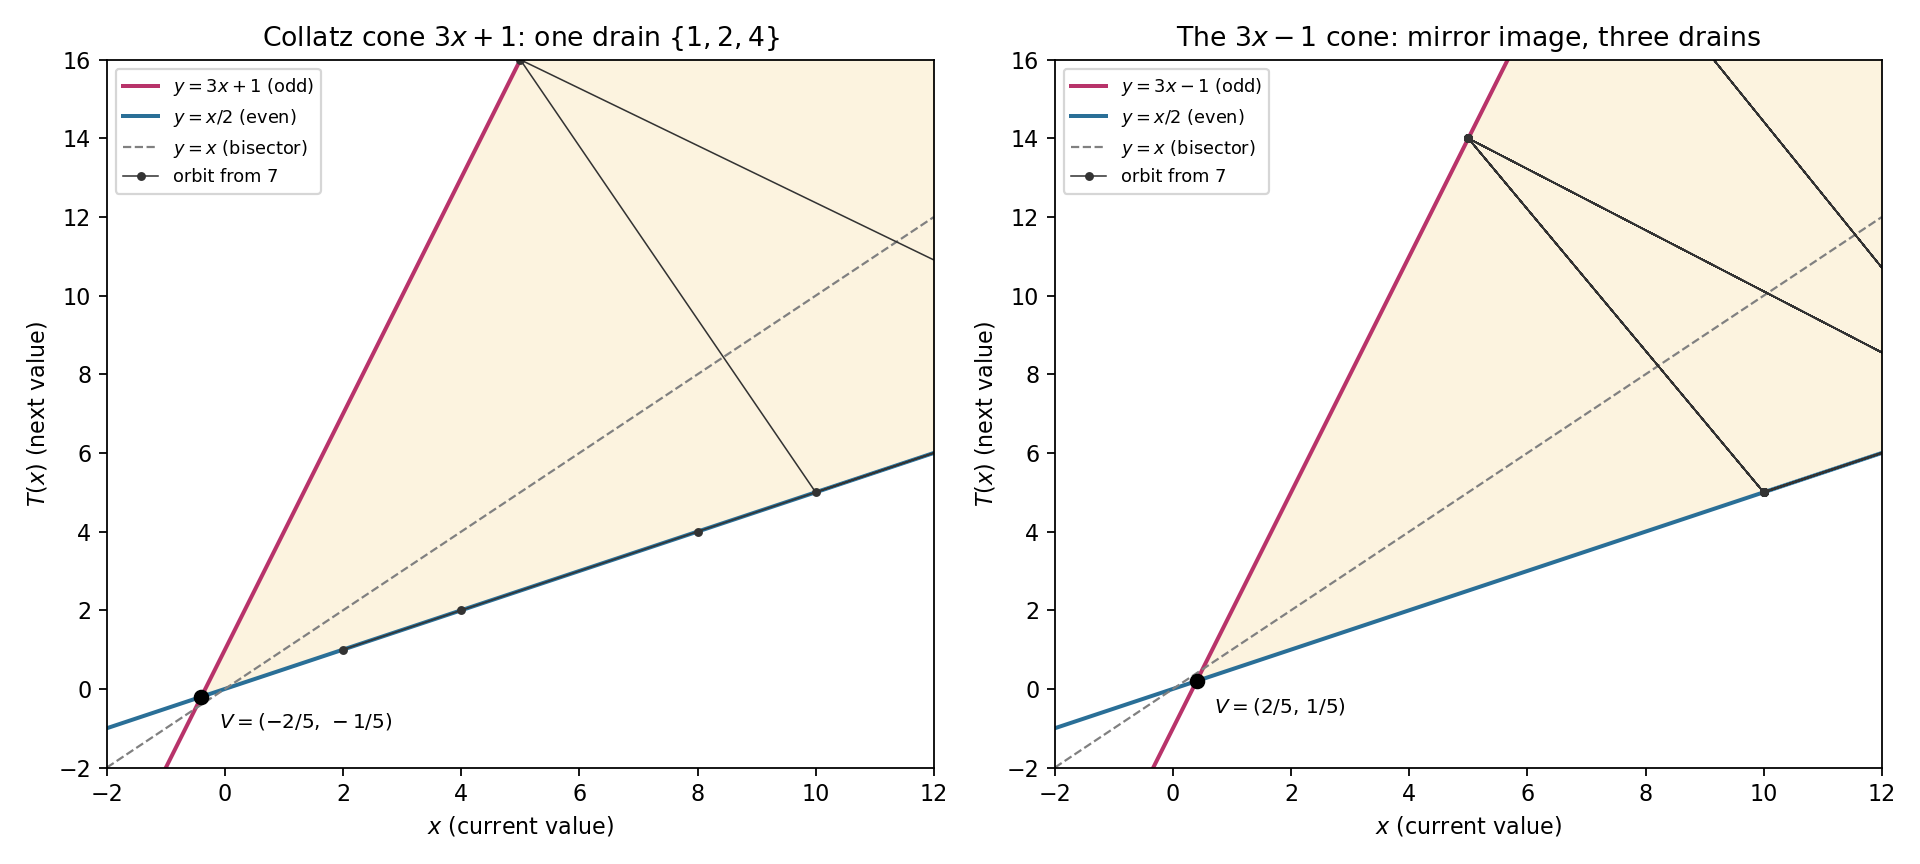
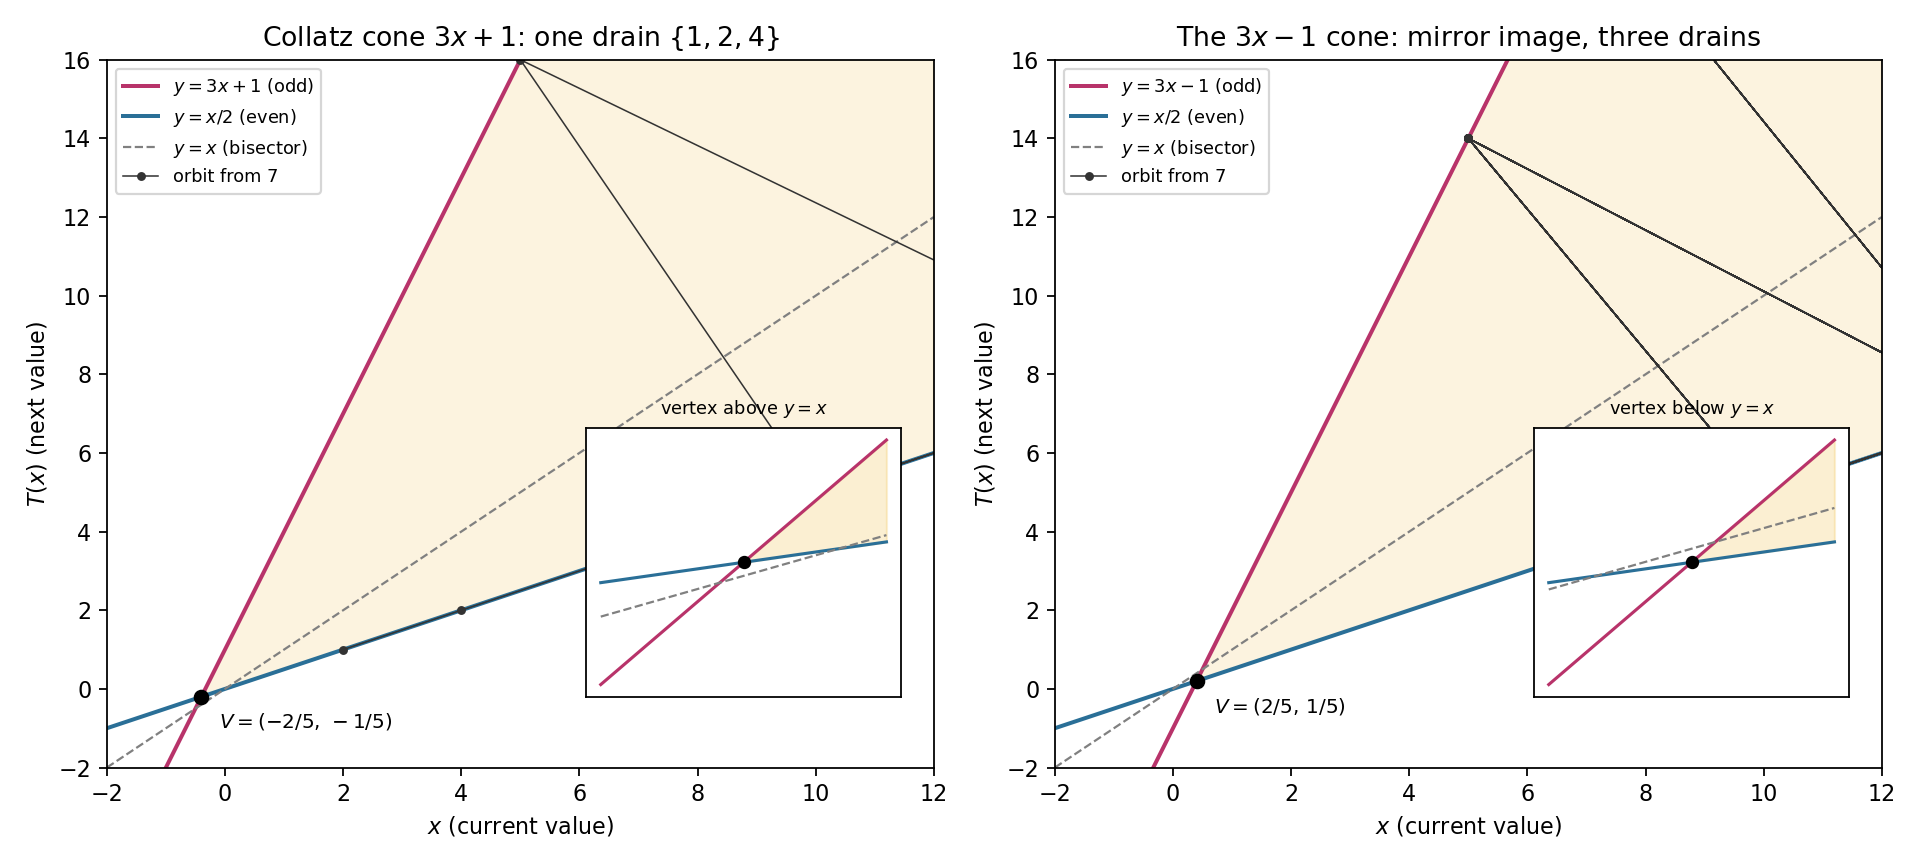
feat(collatz): make vertex-above/below-bisector the discriminant in light cone paper
The sign of the displacement g(V_b)=b/5 at the cone vertex is the unique
cone-level quantity odd under the mirror b -> -b: the Collatz throat sits
above the bisector (trapping/dome side), the 3x-1 throat below it (escaping
side), tracking the one-cycle vs three-cycle split. Adds Theorem 4, vertex
zoom insets to the figure, and replaces the over-pessimistic "obstruction"
section with the discriminant.

Changed region(s): [[0.2812, 0.4688, 0.4688, 0.7188], [0.7812, 0.4688, 0.9688, 0.6875], [0.3125, 0.7812, 0.3438, 0.8125]]

diff --git a/library/scripts/collatz_light_cone.py b/library/scripts/collatz_light_cone.py
@@ -56,6 +56,17 @@ def vertex(b: int) -> tuple[Fraction, Fraction]:
     return x, x / 2
 
 
+def displacement_at_vertex(b: int) -> Fraction:
+    """g(V) = (vertex y) - (vertex x) = f(x)-x at the vertex.
+
+    Positive => the throat sits ABOVE the bisector (the trapping/dome side);
+    negative => BELOW it (the escaping side). Equals b/5, so its sign tracks
+    the sign of b and FLIPS under the origin reflection b -> -b.
+    """
+    vx, vy = vertex(b)
+    return vy - vx
+
+
 def verify_edges(b: int, bound: int = 5000) -> bool:
     """Every orbit point (x, T(x)) lies on the upper or lower edge."""
     for n in range(1, bound):
@@ -112,8 +123,11 @@ def report() -> None:
     for b in (1, -1):
         vx, vy = vertex(b)
         print(f"3x{b:+d} map")
+        g = displacement_at_vertex(b)
+        side = "ABOVE (dome / trapping side)" if g > 0 else "BELOW (escaping side)"
         print(f"  cone vertex V = ({vx}, {vy})")
         print(f"  diagonal slope 1 in (1/2, 3)? yes -> y=x lies inside the wedge")
+        print(f"  displacement g(V) = {g} -> vertex is {side}; sign matches sign(b)")
         verify_edges(b)
         print(f"  every orbit point lies on a cone edge: OK")
         d = drift(b)
@@ -158,6 +172,20 @@ def plot() -> None:
         ax.set_xlabel("$x$ (current value)")
         ax.set_ylabel("$T(x)$ (next value)")
         ax.legend(loc="upper left", fontsize=8)
+
+        # --- zoom inset on the vertex: above vs below the bisector ----------
+        axin = ax.inset_axes([0.58, 0.10, 0.38, 0.38])
+        zx = np.linspace(float(vx) - 0.6, float(vx) + 0.6, 200)
+        axin.plot(zx, 3 * zx + b, color="#b8336a", lw=1.4)
+        axin.plot(zx, zx / 2, color="#2a6f97", lw=1.4)
+        axin.plot(zx, zx, color="gray", lw=1, ls="--")
+        axin.fill_between(zx, zx / 2, 3 * zx + b, where=(3 * zx + b >= zx / 2),
+                          color="#f2c14e", alpha=0.25)
+        axin.plot(float(vx), float(vy), "o", color="black", ms=5)
+        gsign = "above" if (vy - vx) > 0 else "below"
+        axin.set_title(f"vertex {gsign} $y=x$", fontsize=8)
+        axin.set_xticks([])
+        axin.set_yticks([])
 
     draw_cone(ax1, 1, 7, "Collatz cone $3x+1$: one drain $\\{1,2,4\\}$")
     draw_cone(ax2, -1, 7, "The $3x-1$ cone: mirror image, three drains")

diff --git a/library/the-light-cone-of-collatz-two-pairs-of-lines.md b/library/the-light-cone-of-collatz-two-pairs-of-lines.md
@@ -2,7 +2,7 @@
 title: "The Light Cone of Collatz: Two Pairs of Lines and the Geometry of the Bounce"
 type: paper
 created: 2026-06-13T15:00:00+00:00
-updated: 2026-06-13T15:00:00+00:00
+updated: 2026-06-13T16:30:00+00:00
 ---
 
 # The Light Cone of Collatz: Two Pairs of Lines and the Geometry of the Bounce
@@ -35,16 +35,28 @@ the bottom: this is the geometric face of convergence, and it is the same
 "asymptotic shadow that survives iteration" studied in *The Elementary Theory
 of the Infinite Application of a Function*.
 
-Then we mirror it. The $3x-1$ map has the **same cone up to a reflection
-through the origin** — vertex $V' = \left(\tfrac25, \tfrac15\right)$, the same
-diagonal inside, the same $\tfrac34$ drift (measured $e^{-0.2876}$) — and yet
-it has *three* terminal cycles, $\{1,2\}$, $\{5,7,10,14,20\}$, and an
-$18$-element cycle, instead of one. The cone confines and contracts
-identically in both worlds, so it cannot, by itself, distinguish one drain
-from three. This is the same wall met from a different side in *The
-Indestructible Set*: the geometry is real, the proof it seems to offer is not.
-The cone explains why every orbit is *trapped and shrinking*; it is silent on
-*which* drain at the bottom of the funnel catches it.
+Then we mirror it — and find the one thing the mirror does *not* preserve. The
+$3x-1$ map has the cone reflected through the origin: vertex
+$V' = \left(\tfrac25, \tfrac15\right)$, the same diagonal inside, the same
+$\tfrac34$ drift (measured $e^{-0.2876}$). Confinement and contraction are
+identical. But the reflection through the origin fixes the diagonal *as a set*
+while **swapping its two sides**, and the vertex sits on opposite sides in the
+two worlds: the Collatz vertex lies **above** the bisector
+($g(V) = \tfrac15 > 0$), the $3x-1$ vertex **below** it ($g(V') = -\tfrac15$).
+In the language of *The Elementary Theory of the Infinite Application of a
+Function*, where the displacement $g(x) = f(x) - x$ and its sign are *the*
+fundamental difference, the throat of the Collatz cone sits on the **trapping
+(dome) side** of equilibrium, the throat of the $3x-1$ cone on the **escaping
+side** — exactly the distinction the bell-on-the-diagonal examples make
+visible. And the destinies split accordingly: Collatz has the single cycle
+$\{1,2,4\}$; $3x-1$ has *three*. The discriminant
+$\operatorname{sign} g(V_b) = \operatorname{sign}(b)$ is the lone cone-level
+quantity that is **odd** under the mirror, and it is the locus where any proof
+must act. We are honest that "throat above $\Rightarrow$ a single cycle" is not
+here turned into a theorem — that step is the conjecture itself — but we
+correct the over-pessimism of the set-level picture in *The Indestructible
+Set*: the cone is *not* blind to the difference between one drain and three;
+the difference is which side of the bisector the funnel narrows onto.
 
 All numerical claims are reproduced by
 `library/scripts/collatz_light_cone.py`.
@@ -129,7 +141,7 @@ line* toward the vertex.
 
 The figure shows the two cones with a sample orbit threaded through each.
 
-![The Collatz light cone (left, $3x+1$) and its mirror, the $3x-1$ cone (right). The odd edge $y=3x+1$ (slope 3) and the even edge $y=x/2$ (slope 1/2) meet at the vertex $V$; the dashed diagonal $y=x$ runs inside the shaded wedge. The orbit from 7 bounces off the edges, drifting down the bisector toward the vertex.](library/images/collatz-light-cone.png)
+![The Collatz light cone (left, $3x+1$) and its mirror, the $3x-1$ cone (right). The odd edge $y=3x+1$ (slope 3) and the even edge $y=x/2$ (slope 1/2) meet at the vertex $V$; the dashed diagonal $y=x$ runs inside the shaded wedge. The orbit from 7 bounces off the edges, drifting down the bisector toward the vertex. The zoom insets show the decisive asymmetry the mirror cannot hide: the Collatz vertex pokes **above** the bisector, the $3x-1$ vertex sits **below** it.](library/images/collatz-light-cone.png)
 
 The black path is not a cobweb in the usual sense. Each point $(x_n, x_{n+1})$
 sits on an edge; the segment to the next point $(x_{n+1}, x_{n+2})$ carries the
@@ -191,7 +203,9 @@ four places, and, tellingly, **the same value for both maps**. A funnel that
 both confines (Proposition 2) and contracts (Theorem 3) is a funnel whose ball
 rolls to the bottom: this is the geometric statement of convergence. It is a
 statement about the *typical* orbit, in the sense of an average over residues —
-which is exactly where its strength ends, and §7 makes that explicit.
+which is exactly where its strength ends, and §8 makes that explicit. Note too
+that the same value falls out for *both* maps: contraction is reflection-even,
+and so cannot, by itself, separate them. The feature that does is §7.
 
 ---
 
@@ -235,42 +249,89 @@ point on the bisector that the contracting bounce can hold: below it the cone
 has already pinched past the smallest positive integer.
 
 This is the honest content of the slogan "$1$ is inside the cone." It is true,
-and it is suggestive, but — as the next section shows — it is not
-discriminating, because $1$ is inside the $3x-1$ cone too.
+and suggestive — but $1$ is inside the $3x-1$ cone too, so containment is not
+the discriminant. The discriminant is one level finer, and it is the subject of
+the next section: not *whether* the throat is in the cone, but *which side of
+the bisector the throat is on*.
 
 ---
 
-## 7. The mirror cone: the honest obstruction
+## 7. The decisive asymmetry: which side of the bisector the throat is on
 
 Set $b = -1$. The vertex flips to $V' = \left(\tfrac25, \tfrac15\right)$, the
-exact reflection of $V$ through the origin. The even edge is unchanged; the odd
-edge $y = 3x - 1$ is the slope-$3$ line through the new vertex. The diagonal
-still runs inside the wedge (Theorem 1 holds for both signs). The drift is
-still $\log\tfrac34$ (Theorem 3 returned $-0.2876$). **The two cones are mirror
-images, and every structural property we have proved holds identically for
-both.**
+reflection of $V$ through the origin. The even edge is unchanged, the diagonal
+still runs inside the wedge, the drift is still $\log\tfrac34$. Confinement and
+contraction are reproduced exactly. So far the two cones look like mirror
+images with nothing to choose between them — and that is where an earlier,
+over-pessimistic reading (echoed in *The Indestructible Set*) stops: "identical
+laws, different cycle counts, the geometry cannot tell them apart."
 
-And yet the destinies differ completely. The $3x+1$ map has the single
-positive cycle $\{1,2,4\}$. The $3x-1$ map has **three**:
+It can. The reflection through the origin, $(x,y) \mapsto (-x,-y)$, fixes the
+diagonal $y=x$ **as a set** but **swaps its two sides**: if $y>x$ then
+$-y<-x$, so a point above the bisector maps to a point below it. The one cone
+quantity that measures *which side of the bisector* a point lies on is the
+displacement of *The Elementary Theory of the Infinite Application of a
+Function*,
 
 $$
-\{1,2\}, \qquad \{5,7,10,14,20\}, \qquad \{17,25,34,37,41,50,55,61,68,74,82,91,110,122,136,164,182,272\}.
+g(x,y) = y - x \quad\text{(the value of } f(x)-x\text{ read off the graph),}
 $$
 
-The first two are short; the third has eighteen members. Three drains at the
-bottom of a funnel that is geometrically indistinguishable, edge for edge,
-drift for drift, from the funnel with one drain.
+whose sign is, in that book's words, "the fundamental difference" — it "tells
+us whether the orbit is pushed up or down at each step." Evaluate it at the
+vertex:
 
-**This is the wall.** A confinement-plus-contraction argument concludes "the
-ball reaches *a* bottom" — and that is *true* for $3x-1$ as well; every $3x-1$
-orbit does reach one of its three cycles. What the cone cannot deliver is
-*uniqueness of the bottom*. The geometry that traps and shrinks the orbit is
-symmetric under the reflection $b \mapsto -b$, while the cycle count is not, so
-no property invariant under that reflection — and every property in §§2–5 is —
-can separate one cycle from three. The same obstruction appears in *The
-Indestructible Set* from the set-theoretic side: the $3n-1$ map "satisfies
-identical set-level laws while having three cycles instead of one." Here it is
-the identical *cone-level* laws. Two routes, one wall.
+$$
+g(V_b) \;=\; -\tfrac{b}{5} - \left(-\tfrac{2b}{5}\right) \;=\; \frac{b}{5},
+\qquad
+\operatorname{sign} g(V_b) = \operatorname{sign}(b).
+$$
+
+**Theorem 4 (the throat is reflection-odd).** *The displacement at the vertex
+is $g(V_b) = b/5$. Hence the Collatz throat ($b=+1$) lies strictly **above**
+the bisector and the $3x-1$ throat ($b=-1$) strictly **below** it, and this
+single bit is the unique cone-level quantity that is **odd** under the mirror
+$b \mapsto -b$. Every property in §§2–4 — vertex location up to sign,
+containment of the diagonal, the $\tfrac34$ drift — is reflection-**even** and
+therefore blind to the difference; the side of the bisector is not.*
+
+This is exactly the structure the book's **bell on the diagonal** is built to
+display. There a Gaussian sits below the diagonal except for the *dome* that
+pierces above it; the dome is the **trap** — "a point pushed right whenever it
+stands on the dome, pulled left whenever it stands beyond it" — and the orbit's
+infinite application locks into a small bounded oscillation *on the dome*, while
+points on the wrong side "march away forever" to $-\infty$. Above the diagonal
+is the side of capture; below is the side of escape.
+
+Read the two throats against that template:
+
+- **$3x+1$, throat above ($g(V)=+\tfrac15$):** the narrow end of the funnel
+  sits on the **dome / trapping side**. The contracting bounce, funneled down,
+  is captured into a single bounded oscillation at the throat — the lattice's
+  smallest available cycle, $1 \to 4 \to 2 \to 1$. **One drain.**
+- **$3x-1$, throat below ($g(V')=-\tfrac15$):** the narrow end sits on the
+  **escaping side**. There is no single trapping point at the throat to capture
+  the bounce; the descent fragments into several terminal pools — and indeed the
+  $3x-1$ map has **three** positive cycles,
+
+$$
+\{1,2\}, \quad \{5,7,10,14,20\}, \quad \{17,25,34,37,41,50,55,61,68,74,82,91,110,122,136,164,182,272\}.
+$$
+
+So the mirror image is not a wall after all — it is the *signpost*. The cone
+does distinguish the one-drain world from the three-drain world, and it does so
+through precisely the quantity the infinite-application theory singles out as
+fundamental: the sign of $g$ at the vertex.
+
+**What remains open.** Theorem 4 establishes the discriminant and its
+interpretation; it does **not** prove the implication "throat above the
+bisector $\Rightarrow$ exactly one positive cycle." That implication, made
+rigorous and uniform over all integers, *is* the Collatz conjecture. What this
+section does is locate it: the conjecture lives in the sign of $g(V_b)$, the one
+feature the mirror symmetry breaks, and a proof must be an argument that this
+sign forces a single trap — sensitive to the sign of $b$, because the answer
+is. That is a sharper task than "find denser witnesses," and a more hopeful one
+than "the geometry is blind."
 
 ---
 
@@ -287,25 +348,33 @@ The cone is an honest instrument. It sees, exactly:
 - **A single attractor for the infinite application** in the sense of §5: a
   narrowing throat that the integers can only fill with a small terminal cycle.
 
+And it sees one thing more than a first reading credits it with:
+
+- **Which side of equilibrium the funnel narrows onto** (Thm. 4): the sign of
+  $g$ at the vertex, $\operatorname{sign} g(V_b) = \operatorname{sign}(b)$ — the
+  Collatz throat above the bisector (the trapping/dome side), the $3x-1$ throat
+  below it (the escaping side). This is the one cone quantity odd under the
+  mirror, and it tracks the split between one drain and three.
+
 It does not see:
 
-- **Which** terminal cycle a given orbit reaches — the discrimination that
-  separates $3x+1$ from $3x-1$ is invisible to every cone property, because
-  the cones are mirror images.
+- **That "throat above" forces a single cycle.** Theorem 4 names the
+  discriminant; it does not prove the implication. That implication, uniform
+  over all integers, *is* the conjecture.
 - **Whether the contraction is universal** rather than merely average. Theorem
   3 is an expectation over residues; a single orbit can climb for a long time
   (the upper edge has slope $3$), and "on average downhill" is not "always
   arrives." Turning the average drift into a guarantee for *every* starting
-  value is precisely the conjecture, and the cone leaves it open.
+  value is, again, the conjecture.
 
-The path forward is the one named at the close of *The Indestructible Set*: not
-a stronger confinement, however tight, but bounce-to-bounce composition that
-the symmetric geometry cannot capture — an argument sensitive to the sign of
-$b$, because the answer is.
+The path forward is no longer "the geometry is blind, find denser witnesses."
+It is sharper: prove that a throat on the **dome side** of the bisector admits a
+single trap. The argument must be sensitive to the sign of $b$ — because the
+answer is, and now we know exactly where in the geometry that sign lives.
 
 ---
 
-## 9. Conclusion: a true funnel, an incomplete proof
+## 9. Conclusion: a true funnel, and the seam where the proof must enter
 
 Two lines, one vertex, one wedge. The Collatz map, read one step at a time,
 is a ball bouncing in a funnel that confines it (it never leaves the cone) and
@@ -314,12 +383,22 @@ throat). That funnel is real, and it is the geometric body of the same
 "asymptotic shadow" the infinite-application theory studies abstractly: the
 collapse of an iterated map onto the residue it cannot shed.
 
-But the $3x-1$ map bounces in the mirror of that funnel — same confinement,
-same drift, same bisector — and drains into three pools, not one. So the cone,
-for all its honesty, stops exactly where every honest picture of Collatz stops:
-it proves the ball goes *down*, and is silent on *which* drain it finds. The
-funnel is genuine; the proof it gestures at is not; and between the two the
-conjecture sits, intact, waiting for an argument that knows the sign of $b$.
+The $3x-1$ map bounces in the mirror of that funnel — same confinement, same
+drift — and the mirror tempts one to conclude the geometry cannot tell one
+drain from three. But the mirror, reflecting through the origin, fixes the
+bisector as a set and **swaps its two sides**, and the throats fall on opposite
+sides: Collatz above (the trapping dome side, $g(V)=+\tfrac15$), $3x-1$ below
+(the escaping side, $g(V')=-\tfrac15$). The cone is not blind; it points. The
+displacement $g$ at the vertex — the very quantity the infinite-application
+theory calls the fundamental difference — is the one feature the symmetry
+breaks, and it tracks the one-versus-three split exactly.
+
+What the cone does not yet do is *force* the implication from that sign to a
+unique cycle; that step, made uniform, is the conjecture itself. So the funnel
+is genuine and the discriminant is genuine, and between them lies not a blank
+wall but a seam: prove that a throat above the bisector admits a single trap.
+The conjecture sits there, at the sign of $g(V_b)$ — exactly where the mirror
+could not follow it.
 
 ---
 
@@ -337,7 +416,10 @@ $V_b = (-2b/5, -b/5)$ and the containment of the diagonal in the wedge
 cone, exhaustively for all starting values $n < 5000$ over $200$ steps each
 (Proposition 2); the mean log-multiplier per macrostep, measured at $-0.2877$
 ($b=+1$) and $-0.2876$ ($b=-1$) against the predicted $\log\tfrac34 = -0.2877$
-(Theorem 3); and the positive cycle structure — the single cycle $\{1,2,4\}$
-for $b=+1$ versus the three cycles $\{1,2\}$, $\{5,7,10,14,20\}$, and the
-$18$-element cycle for $b=-1$ (Section 7). It also renders the two-panel figure
-`library/images/collatz-light-cone.png`.
+(Theorem 3); the displacement at the vertex $g(V_b) = b/5$, reporting the
+Collatz throat **above** the bisector and the $3x-1$ throat **below** it, with
+$\operatorname{sign} g(V_b) = \operatorname{sign}(b)$ (Theorem 4); and the
+positive cycle structure — the single cycle $\{1,2,4\}$ for $b=+1$ versus the
+three cycles $\{1,2\}$, $\{5,7,10,14,20\}$, and the $18$-element cycle for
+$b=-1$ (Section 7). It also renders the two-panel figure (with vertex zoom
+insets) `library/images/collatz-light-cone.png`.